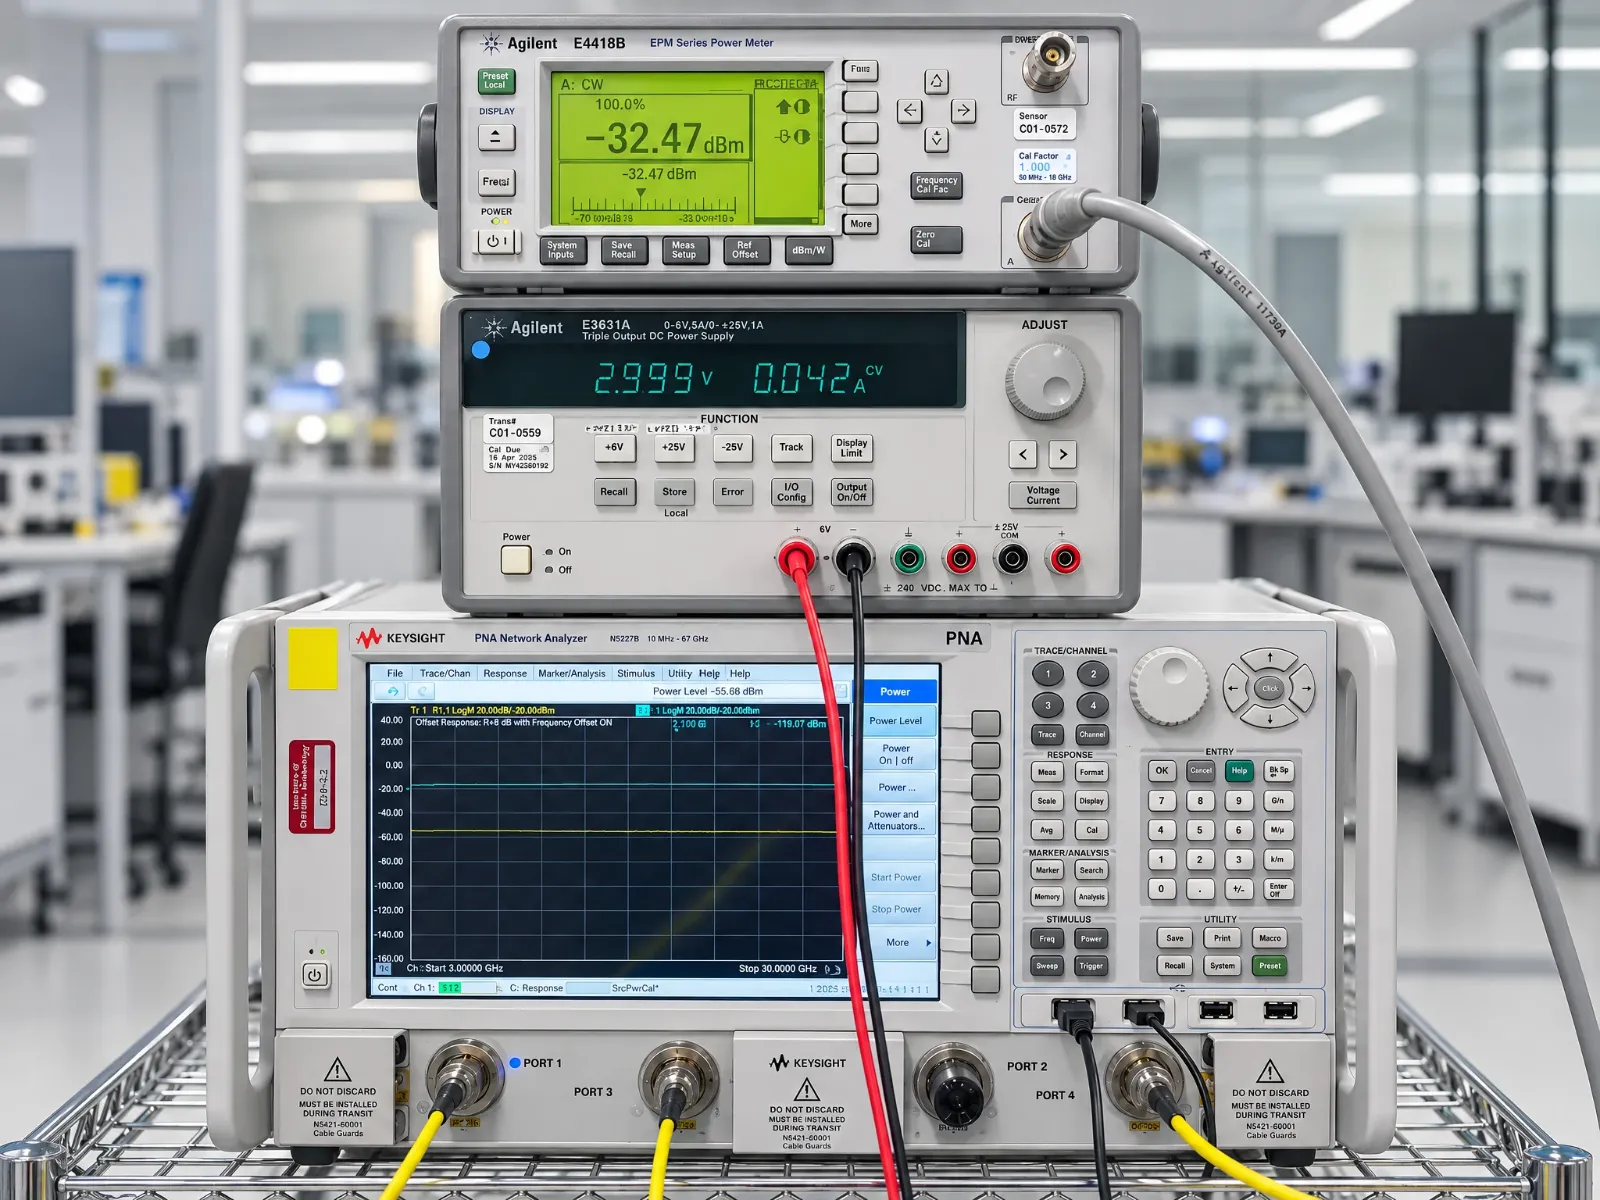
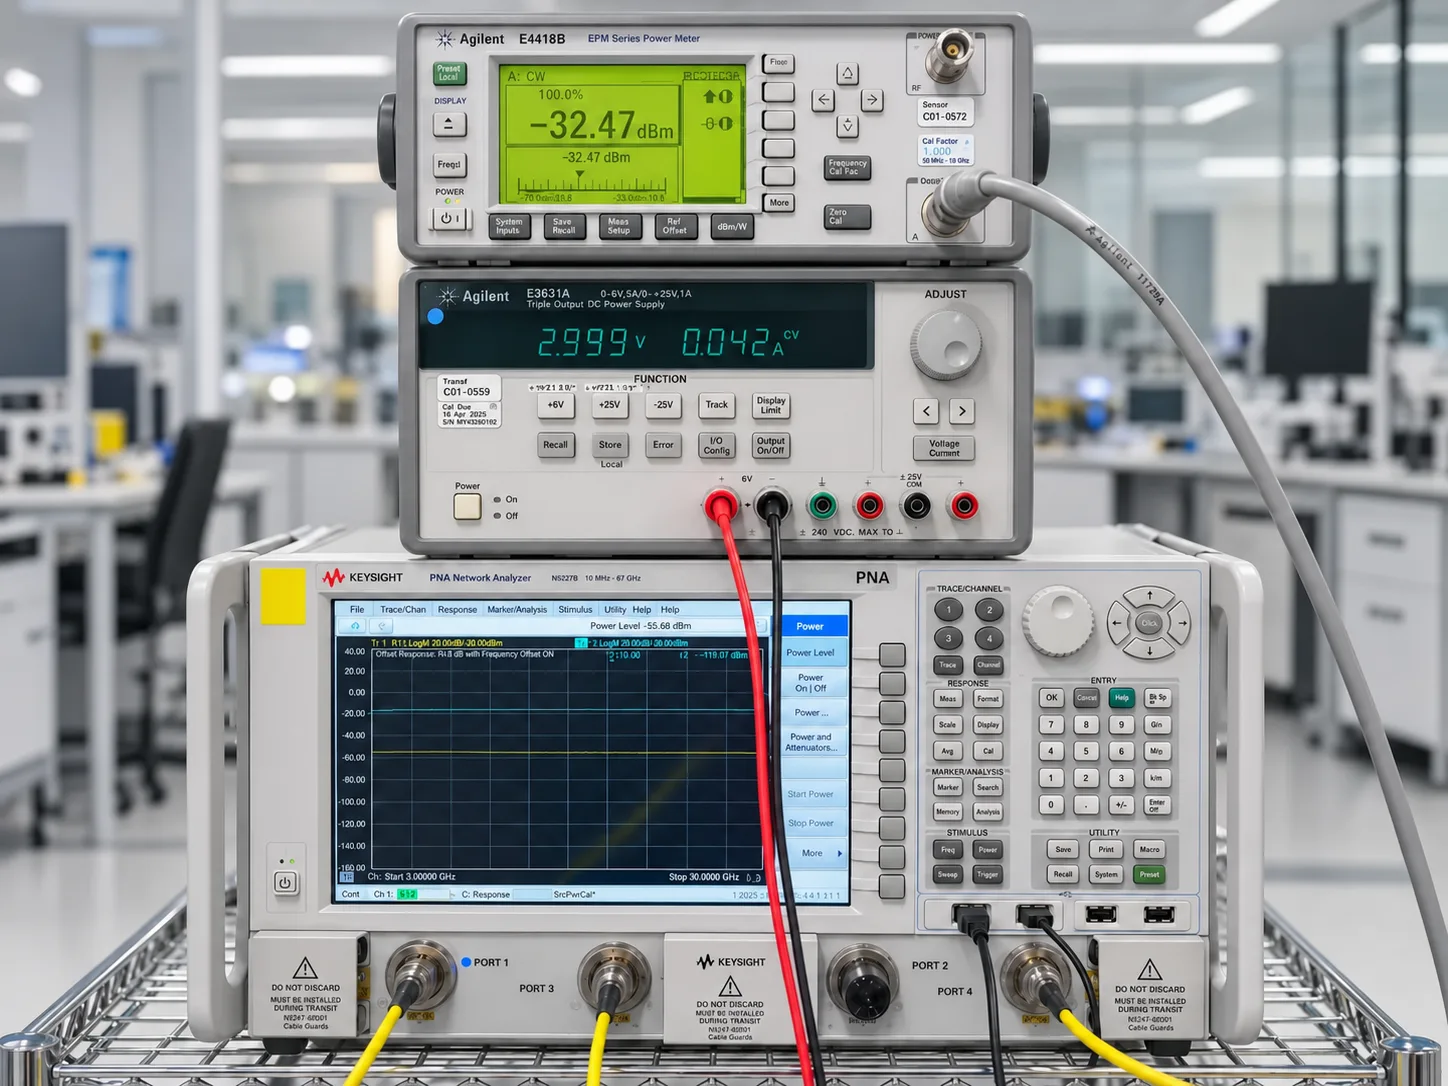
Remove Identifying information from image

diff --git a/public/index.html b/public/index.html
@@ -88,7 +88,7 @@
         <div class="svc-grid">
           <article class="svc-tile"><img class="svc-photo" src="/img/uf200.webp" width="1024" height="1536" style="object-position: 50% 42%" alt="" loading="lazy" decoding="async"><div class="svc-text"><span class="practical-index">TEST DEVELOPMENT</span><h3>Wafer Probe &amp; Package Test</h3><p>Test programs from first plan through production release.</p></div><button class="svc-toggle" type="button" aria-expanded="false" aria-controls="svc-more-0" aria-label="Wafer Probe &amp; Package Test details"></button><div class="svc-more" id="svc-more-0"><p class="svc-more-title">Wafer Probe &amp; Package Test</p><ul><li>ATE Probe &amp; Package Test Development, including WLCSP</li><li>Analog / Power Management / SoC / Mixed Signal / RF test</li><li>Design for Test Methodology (DFT), with early design-team engagement</li><li>Test plan development and detailed documentation</li><li>Production release and post-release support</li></ul><div class="svc-ate"><p class="svc-ate-label">ATE platforms</p><p>Teradyne ETS364 / ETS88 / ETS800, Microflex, UltraFlex, Advantest 93K, Accotest, Chroma Test, ASL1000, and Focused Test.</p></div></div></article>
           <article class="svc-tile"><img class="svc-photo" src="/img/vertical-probe.webp" width="1200" height="814" style="object-position: 50% 45%" alt="" loading="lazy" decoding="async"><div class="svc-text"><span class="practical-index">HARDWARE DESIGN</span><h3>Purpose-Built Test Hardware</h3><p>High-density PCB stack-ups, reliability boards, and wafer probe card architectures.</p></div><button class="svc-toggle" type="button" aria-expanded="false" aria-controls="svc-more-1" aria-label="Purpose-Built Test Hardware details"></button><div class="svc-more" id="svc-more-1"><p class="svc-more-title">Purpose-Built Test Hardware</p><ul><li>High-density multilayer PCB stack-ups</li><li>Low-leakage, high-voltage applications</li><li>Thermal and signal integrity design</li><li>HTOL / HAST boards</li><li>Wafer-level probe card architectures</li><li>Load board design and SPICE simulations</li></ul></div></article>
-          <article class="svc-tile"><img class="svc-photo" src="/img/bench-setup.webp" width="1600" height="1200" style="object-position: 50% 30%" alt="" loading="lazy" decoding="async"><div class="svc-text"><span class="practical-index">SILICON EVALUATION</span><h3>Qualification &amp; Characterization</h3><p>Validate, qualify, debug, and improve device performance.</p></div><button class="svc-toggle" type="button" aria-expanded="false" aria-controls="svc-more-2" aria-label="Qualification &amp; Characterization details"></button><div class="svc-more" id="svc-more-2"><p class="svc-more-title">Qualification &amp; Characterization</p><ul><li>Product qualification (AEC-Q100, MIL-STD-883)</li><li>Silicon validation, ESD, and latchup</li><li>Die and package debug</li><li>Device and product characterization</li><li>Failure analysis and root cause detection</li><li>Product Robustness Testing Under Extreme Conditions</li></ul></div></article>
+          <article class="svc-tile"><img class="svc-photo" src="/img/bench-setup.webp" width="1448" height="1086" style="object-position: 50% 30%" alt="" loading="lazy" decoding="async"><div class="svc-text"><span class="practical-index">SILICON EVALUATION</span><h3>Qualification &amp; Characterization</h3><p>Validate, qualify, debug, and improve device performance.</p></div><button class="svc-toggle" type="button" aria-expanded="false" aria-controls="svc-more-2" aria-label="Qualification &amp; Characterization details"></button><div class="svc-more" id="svc-more-2"><p class="svc-more-title">Qualification &amp; Characterization</p><ul><li>Product qualification (AEC-Q100, MIL-STD-883)</li><li>Silicon validation, ESD, and latchup</li><li>Die and package debug</li><li>Device and product characterization</li><li>Failure analysis and root cause detection</li><li>Product Robustness Testing Under Extreme Conditions</li></ul></div></article>
           <article class="svc-tile"><img class="svc-photo" src="/img/eval-board-test.webp" width="1600" height="837" style="object-position: 54% 50%" alt="" loading="lazy" decoding="async"><div class="svc-text"><span class="practical-index">PRODUCT SUPPORT</span><h3>Product &amp; Application Support</h3><p>Product engineering, application support, test time reduction, and yield improvement.</p></div><button class="svc-toggle" type="button" aria-expanded="false" aria-controls="svc-more-3" aria-label="Product &amp; Application Support details"></button><div class="svc-more" id="svc-more-3"><p class="svc-more-title">Product &amp; Application Support</p><ul><li>Product engineering</li><li>Assembly Services &amp; Turnkey Operations</li><li>Samples, demo boards, and offshore release</li><li>Application board design and debug</li><li>Performance curves and datasheets</li><li>Customer demo board build and support</li><li>Test time reduction and yield improvement</li></ul></div></article>
           <article class="svc-tile"><img class="svc-photo" src="/img/tray-stack.webp" width="1600" height="880" style="object-position: 46% 50%" alt="" loading="lazy" decoding="async"><div class="svc-text"><span class="practical-index">TURNKEY OPERATIONS</span><h3>Turnkey Operations <small>(Onshore &amp; Offshore)</small></h3><p>From assembly and multisite test to inventory management and drop shipping.</p></div><button class="svc-toggle" type="button" aria-expanded="false" aria-controls="svc-more-4" aria-label="Turnkey Operations (Onshore &amp; Offshore) details"></button><div class="svc-more" id="svc-more-4"><p class="svc-more-title">Turnkey Operations (Onshore &amp; Offshore)</p><ul><li>Assembly &mdash; engagement with industry-leading partners</li><li>Wafer Probe</li><li>Multisite Test</li><li>Tape &amp; Reel</li><li>Inventory Management</li><li>Drop Ship Services</li><li>Our customers achieve record NPI cycle times and cost control with SiliconEng's functional expertise and bespoke services.</li></ul></div></article>
         </div>

diff --git a/public/careers.html b/public/careers.html
@@ -29,7 +29,7 @@
         <p>From the heart of Silicon Valley, our engineers carry analog, power management, SoC, and RF devices from first test plan to production release. If that&rsquo;s the work you want to do, we&rsquo;d like to hear from you.</p>
         <div class="careers-hero-links"><a href="#apply">Send your resume</a></div>
       </div>
-      <figure class="careers-hero-image"><img src="/img/bench-setup.webp" width="1600" height="1200" alt="Power meter, DC power supply, and network analyzer set up on a lab bench" fetchpriority="high"><figcaption>SANTA CLARA, CALIFORNIA</figcaption></figure>
+      <figure class="careers-hero-image"><img src="/img/bench-setup.webp" width="1448" height="1086" alt="Power meter, DC power supply, and network analyzer set up on a lab bench" fetchpriority="high"><figcaption>SANTA CLARA, CALIFORNIA</figcaption></figure>
     </section>
 
     <section class="careers-apply" id="apply" aria-labelledby="apply-title">
